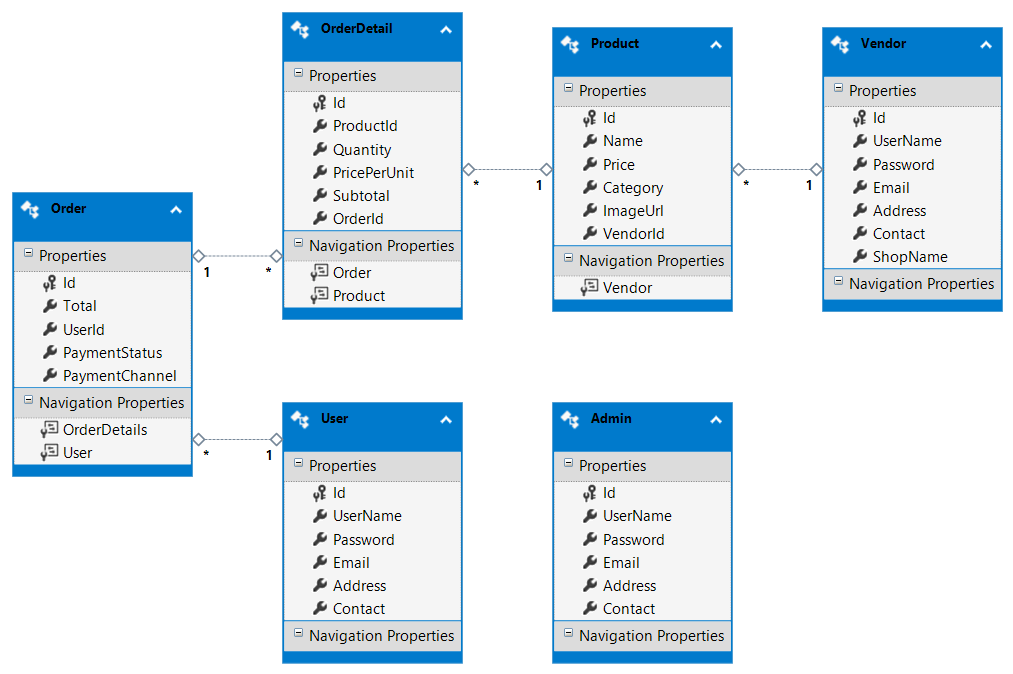
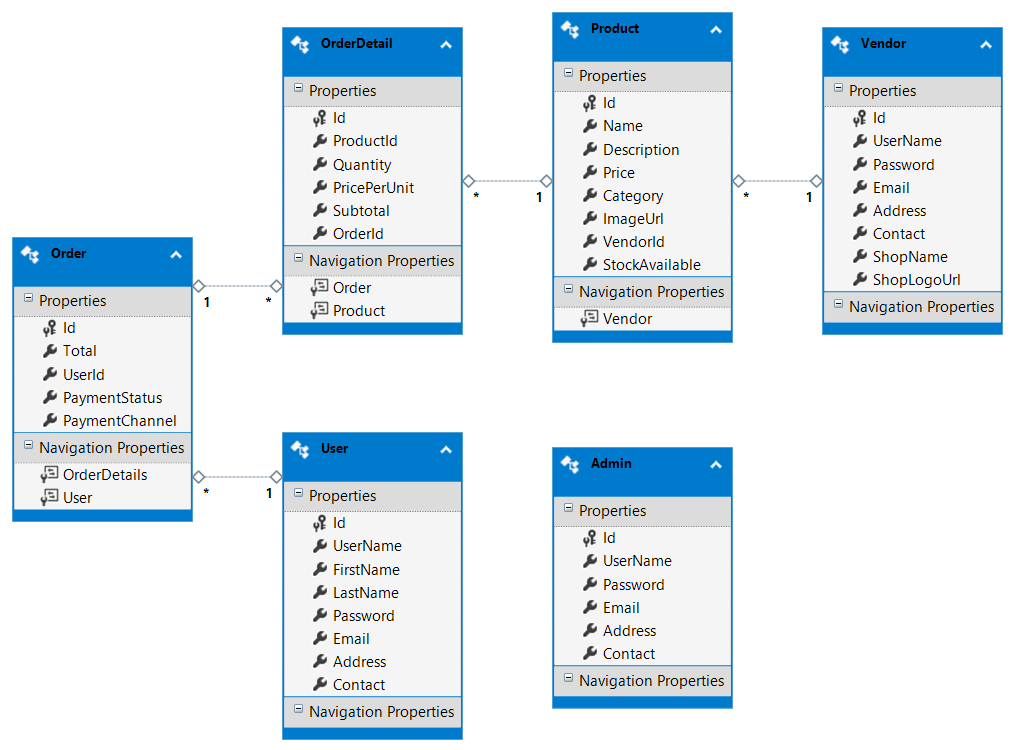
feat: expand database based on eugene's erd

diff --git a/src/database-init/Shopp/Program.cs b/src/database-init/Shopp/Program.cs
@@ -13,6 +13,9 @@ namespace Shopp
 		public int Id { get; set; }
 
 		public string UserName { get; set; }
+		public string FirstName { get; set; }
+		public string LastName { get; set; }
+
 		public string Password { get; set; }
 
 		public string Email { get; set; }
@@ -58,6 +61,8 @@ namespace Shopp
 	{
 		public int Id { get; set; }
 		public string Name { get; set; }
+		public string Description { get; set; }
+
 		public decimal Price { get; set; }
 		public string Category { get; set; }
 
@@ -65,6 +70,8 @@ namespace Shopp
 
 		public int VendorId { get; set; }
 		public Vendor Vendor { get; set; }
+
+		public int StockAvailable { get; set; }
 	}
 
 	public class Vendor
@@ -78,6 +85,7 @@ namespace Shopp
 		public string Contact { get; set; }
 
 		public string ShopName { get; set; }
+		public string ShopLogoUrl { get; set; }
 	}
 
 	public class Admin
@@ -126,6 +134,8 @@ namespace Shopp
 					u.Email = f.Internet.Email();
 					u.Password = "user";
 					u.UserName = $"user{u.Id}";
+					u.FirstName = f.Name.FirstName();
+					u.LastName = f.Name.LastName();
 				})
 				.Generate(10);
 			context.Users.AddRange(users);
@@ -171,6 +181,7 @@ namespace Shopp
 					v.Password = "vendor";
 					v.UserName = $"vendor{v.Id}";
 					v.ShopName = f.Company.CompanyName();
+					v.ShopLogoUrl = "https://placeimg.com/128/128/arch";
 				})
 				.Generate(10);
 			context.Vendors.AddRange(vendors);
@@ -185,6 +196,8 @@ namespace Shopp
 					p.ImageUrl = "https://source.unsplash.com/300x300/?shoe";
 					p.Name = f.Commerce.ProductName();
 					p.Vendor = f.PickRandom(vendors);
+					p.Description = f.Lorem.Sentences(2);
+					p.StockAvailable = f.Random.Int(0, 200);
 				})
 				.Generate(50);
 			context.Products.AddRange(products);

diff --git a/slides/slides.md b/slides/slides.md
@@ -20,6 +20,24 @@ ERD
 
 ---
 
+<img src="erd-sarmela.jpeg" width="50%" height="50%"/>
+
+Group Sarmela
+
+---
+
+<img src="erd-nazmi.jpeg" width="50%" height="50%"/>
+
+Group Nazmi
+
+---
+
+<img src="erd-eugene.jpeg" width="40%" height="40%"/>
+
+Group Eugene
+
+---
+
 ![](Shopp.png)
 
 ---
@@ -31,6 +49,14 @@ ERD
 1. each `OrderDetail` can have one `Product`
 1. each `Product` belongs to one `Vendor`
 1. `Admin`
+
+---
+
+## Possible extension points
+
+1. persist items in `Cart`
+1. choosing `Shipment` method tracking status
+1. displaying `Promotion` offered by `Vendor`
 
 ---
 
